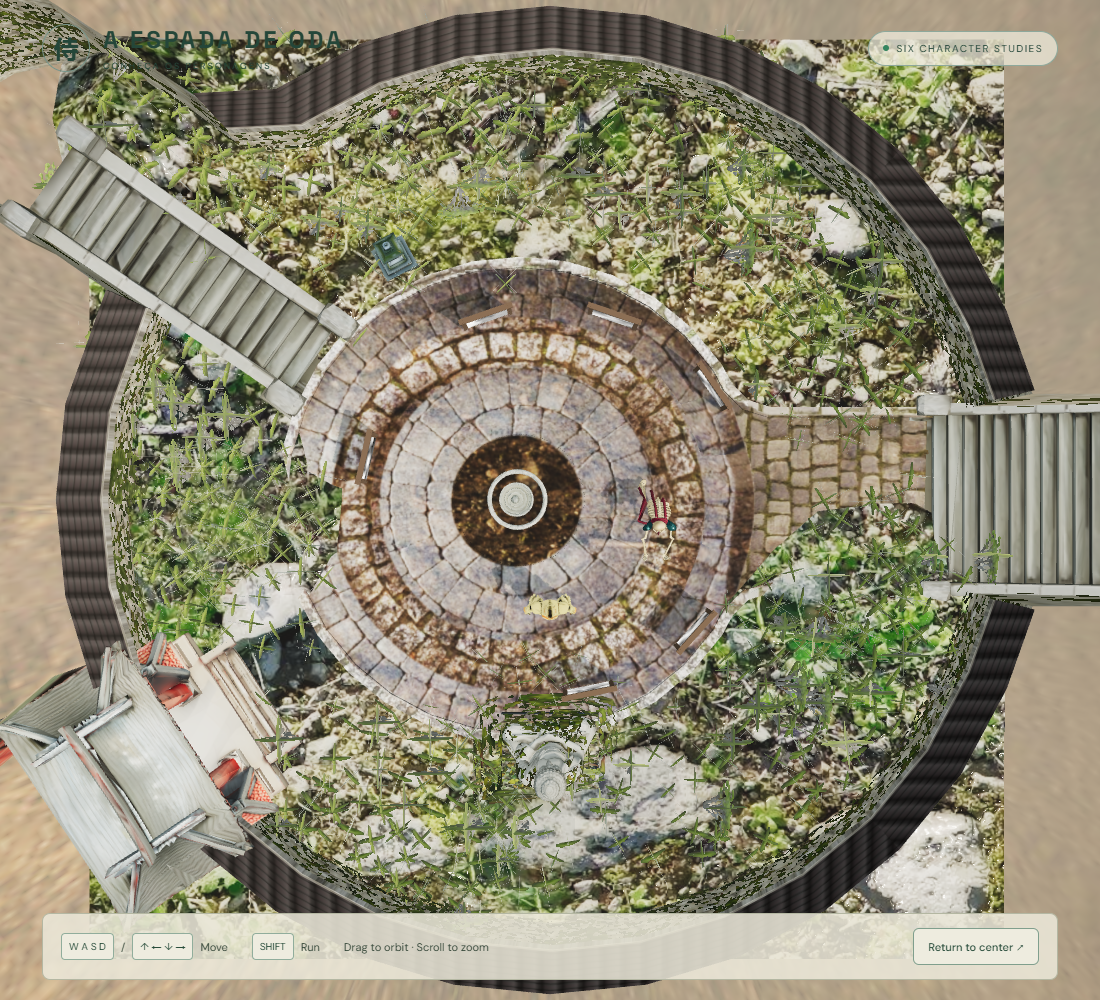
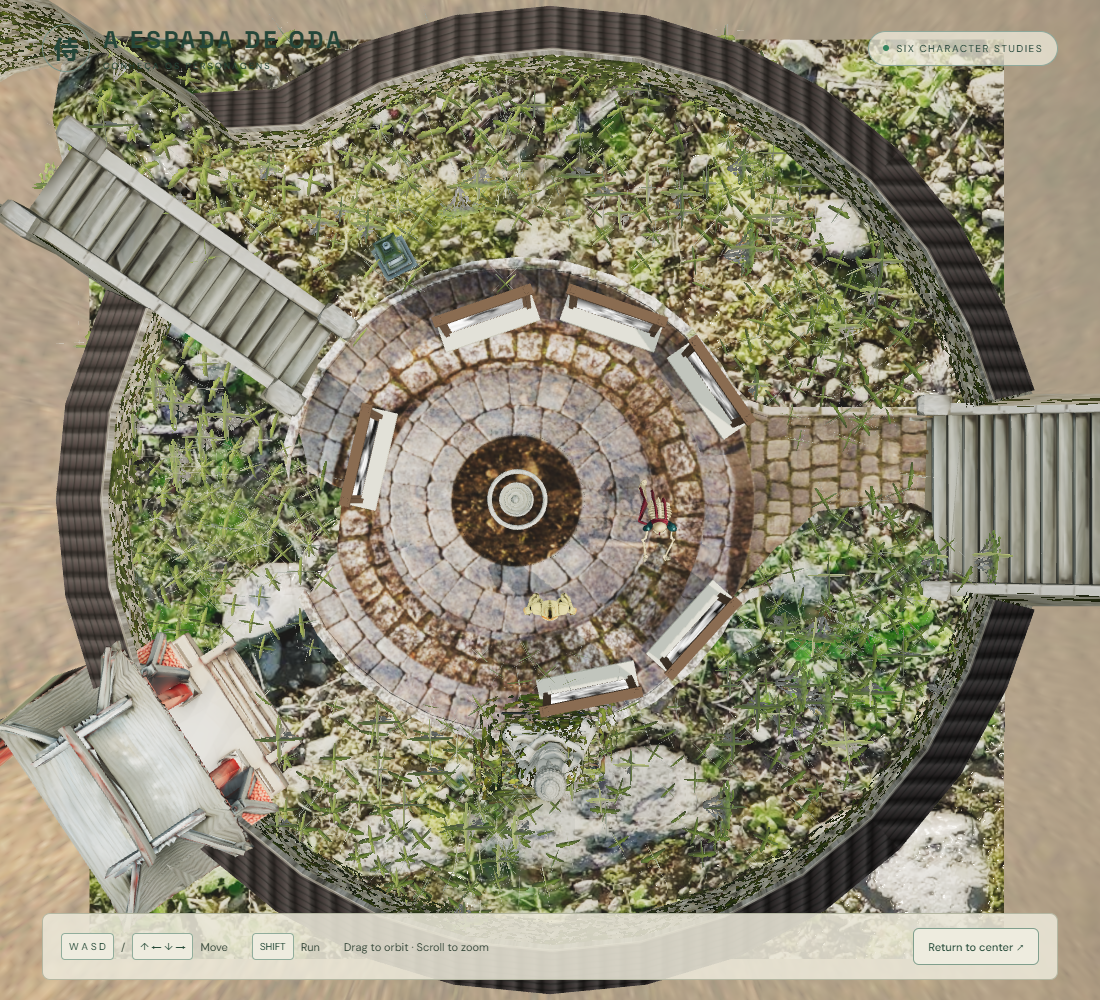
updated frames

diff --git a/src/courtyard.ts b/src/courtyard.ts
@@ -1,7 +1,9 @@
 import * as THREE from 'three'
 import { GLTFLoader } from 'three/addons/loaders/GLTFLoader.js'
 
-const displayScale = 0.45
+// The imported courtyard paving is at y=0.192; leave a small contact clearance.
+export const courtyardFloorHeight = 0.2
+const displayScale = 0.8
 const displayHalfWidth = 1.8 * displayScale + 0.35
 const displayHalfDepth = 0.6 * displayScale + 0.35
 
@@ -39,8 +41,8 @@ export const exhibits: { name: string; description: string; image: string; posit
   name: 'Princesa Thakane',
   description: 'Esta é a Princesa Thakane. Gosta de shopping centers.',
   image: `${import.meta.env.BASE_URL}exhibits/princesa-thakane.png`,
-  position: new THREE.Vector3(1.1, 0, 5.4),
-  rotation: Math.atan2(-1.1, -5.4),
+  position: new THREE.Vector3(-4.1, 0, 5.8),
+  rotation: Math.atan2(4.1, -5.8),
 }]
 
 
@@ -62,6 +64,7 @@ export async function createCourtyard(scene: THREE.Scene) {
   }
   const loader = new THREE.TextureLoader()
   for (const exhibit of exhibits) {
+    exhibit.position.y = courtyardFloorHeight
     const display = new THREE.Group()
     display.name = `Character display: ${exhibit.name}`
     display.scale.setScalar(displayScale)
@@ -81,6 +84,7 @@ export async function createCourtyard(scene: THREE.Scene) {
 }
 
 export function constrainPosition(position: THREE.Vector3) {
+  position.y = courtyardFloorHeight
   position.x = THREE.MathUtils.clamp(position.x, -11.3, 11.3)
   position.z = THREE.MathUtils.clamp(position.z, -11.2, 11.2)
   for (const exhibit of exhibits) {
